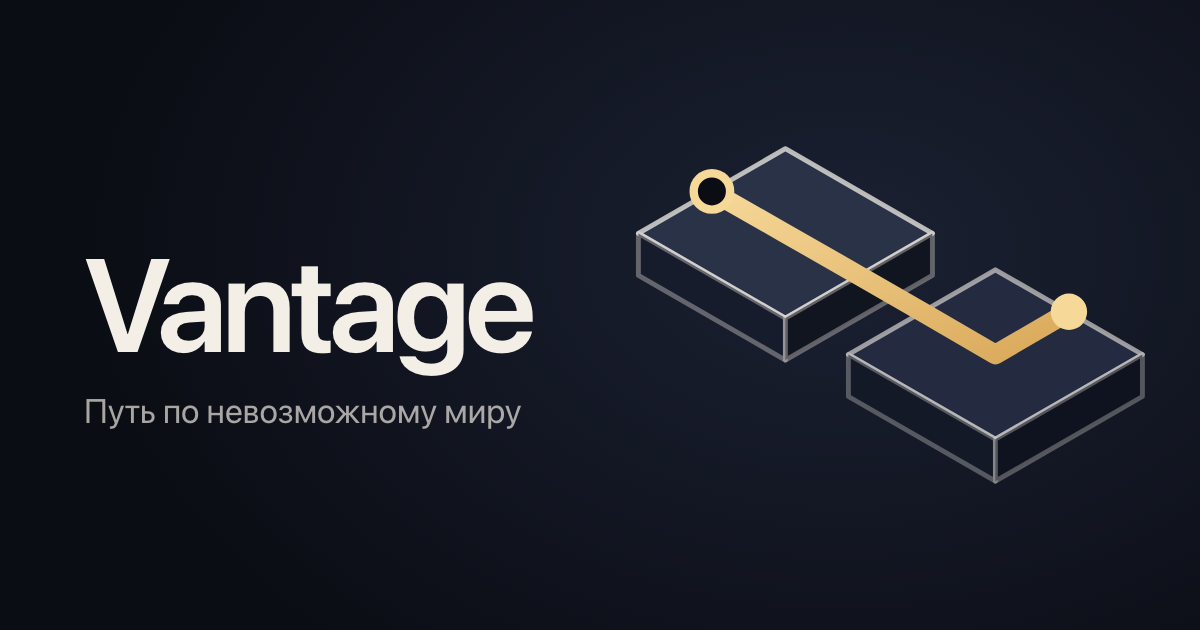
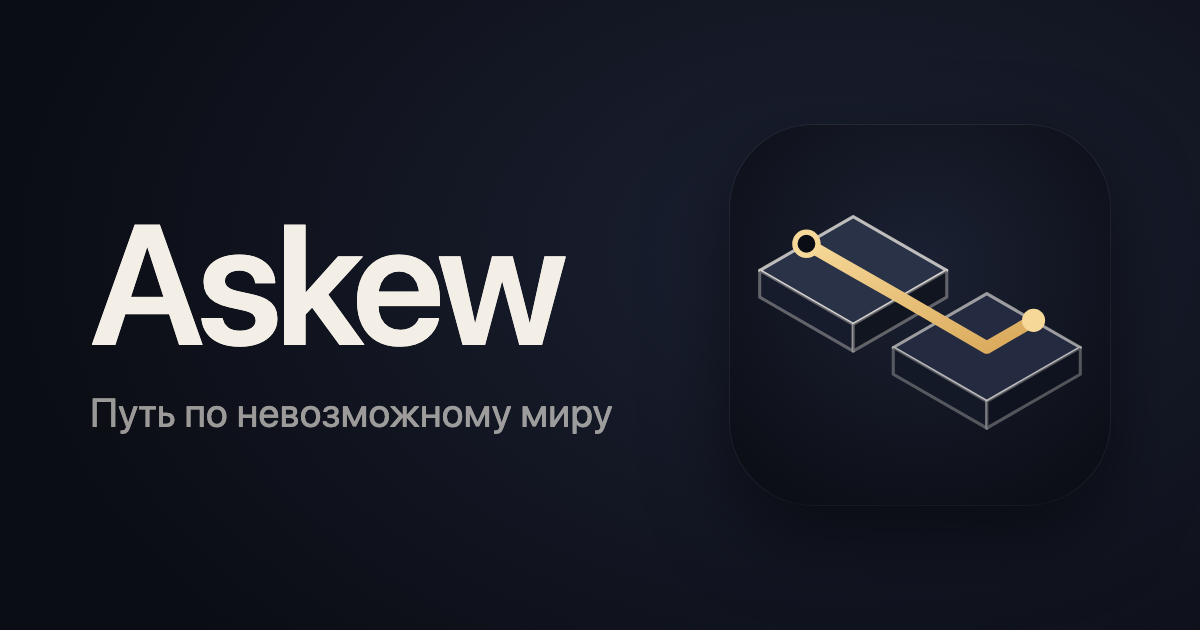
Rename the game to Askew, new cover

diff --git a/src/i18n.js b/src/i18n.js
@@ -1,4 +1,4 @@
-// Vantage i18n: V.i18n.t(key, params), setLang(l), lang(), pick({ru,en}), apply(root), onChange(fn).
+// Askew i18n: V.i18n.t(key, params), setLang(l), lang(), pick({ru,en}), apply(root), onChange(fn).
 // Markup: data-i18n="key" (text), data-i18n-aria="key" (aria-label), data-i18n-title="key" (title).
 (function (root) {
   const V = (root.V = root.V || {});
@@ -10,7 +10,7 @@
       'pw.title': 'Полная версия', 'pw.p': 'Все остальные главы и будущие уровни. Бесплатные главы остаются бесплатными навсегда. Разовая покупка, без подписки.', 'pw.buy': 'Купить полную версию', 'pw.restore': 'Восстановить покупку', 'pw.later': 'Позже', 'pw.bad': 'Покупка не завершена', 'pw.on': 'Полная версия открыта. Спасибо!', 'pw.open': 'Полная версия', 'pw.active': 'Полная версия · открыта', 'levels.pro': 'Полная версия',
       'hint.idle': 'Застрял? Нажми на лампочку: подскажу идею. Один раз на уровень',
       'daily.t': 'Уровень дня', 'daily.lock': 'Уровень дня · ещё {n}', 'daily.done': 'Пройден · завтра новый', 'daily.note': 'Новый уровень завтра', 'share.btn': 'Поделиться', 'share.copied': 'Скопировано', 'share.fail': 'Не удалось скопировать', 'photo.btn': 'Фото',
-      'share.level': 'Vantage · Уровень {n}', 'share.daily': 'Vantage · Уровень дня №{n}',
+      'share.level': 'Askew · Уровень {n}', 'share.daily': 'Askew · Уровень дня №{n}',
       'win.par': 'Эталон', 'win.tip.par': 'Ещё звезда: уложись в {n} или меньше', 'win.tip.hint': 'Ещё звезда: пройди без подсказок', 'win.tip.full': 'Идеальное прохождение',
       'dead.t': 'Отсюда путь не найти', 'dead.undo': 'Отменить ход', 'dead.reset': 'Заново', 'bar.reset': 'Уровень сброшен', 'bar.restore': 'Вернуть',
       'common.back': 'Назад', 'common.close': 'Закрыть', 'common.cancel': 'Отмена',
@@ -36,7 +36,7 @@
       'how.1.h': 'Вращай мир', 'how.1.p': 'Перетащи по экрану или нажми стрелки: вид переключается между четырьмя сторонами.',
       'how.2.h': 'Соединяй на экране', 'how.2.p': 'Если плитки касаются на экране, между ними можно пройти — даже когда в мире они далеко друг от друга.',
       'how.3.h': 'Дойди до кольца', 'how.3.p': 'Коснись плитки, чтобы идти. Рычаги открывают ворота, а блоки можно двигать.',
-      'set.foot': 'Vantage · {n} уровней · работает без интернета', 'how.legend': 'Что встретится', 'how.l.lever': 'Рычаг и ворота', 'how.l.lever.p': 'Наступи на рычаг, и ворота откроются. Переключатель меняет их туда и обратно.', 'how.l.slider': 'Блок-ползунок', 'how.l.slider.p': 'Его можно сдвинуть пальцем: новое положение соединяет другие плитки.', 'how.l.crumble': 'Хрупкая плитка', 'how.l.crumble.p': 'Рассыпается, как только ты с неё сошёл. Назад нельзя.', 'how.l.ghost': 'Призрак', 'how.l.ghost.p': 'Есть только с двух противоположных сторон. Поворачивай мир.', 'how.l.portal': 'Портал', 'how.l.portal.p': 'Шагни в кольцо, и выйдешь из парного.', 'how.l.twin': 'Двойник', 'how.l.twin.p': 'Повторяет твои шаги зеркально. Оба должны дойти до своих колец.', 'how.hint': 'Подсказка одна на уровень и открывает идею, а не весь путь.',
+      'set.foot': 'Askew · {n} уровней · работает без интернета', 'how.legend': 'Что встретится', 'how.l.lever': 'Рычаг и ворота', 'how.l.lever.p': 'Наступи на рычаг, и ворота откроются. Переключатель меняет их туда и обратно.', 'how.l.slider': 'Блок-ползунок', 'how.l.slider.p': 'Его можно сдвинуть пальцем: новое положение соединяет другие плитки.', 'how.l.crumble': 'Хрупкая плитка', 'how.l.crumble.p': 'Рассыпается, как только ты с неё сошёл. Назад нельзя.', 'how.l.ghost': 'Призрак', 'how.l.ghost.p': 'Есть только с двух противоположных сторон. Поворачивай мир.', 'how.l.portal': 'Портал', 'how.l.portal.p': 'Шагни в кольцо, и выйдешь из парного.', 'how.l.twin': 'Двойник', 'how.l.twin.p': 'Повторяет твои шаги зеркально. Оба должны дойти до своих колец.', 'how.hint': 'Подсказка одна на уровень и открывает идею, а не весь путь.',
       'how.stars': 'Звёзды: пройти уровень, обойтись без подсказок, уложиться в эталон ходов. Повороты мира не считаются.', 'how.go': 'К игре',
     },
     en: {
@@ -46,7 +46,7 @@
       'pw.title': 'Full version', 'pw.p': 'Every remaining chapter and all future levels. Free chapters stay free forever. One purchase, no subscription.', 'pw.buy': 'Buy the full version', 'pw.restore': 'Restore purchase', 'pw.later': 'Not now', 'pw.bad': 'Purchase was not completed', 'pw.on': 'Full version unlocked. Thank you!', 'pw.open': 'Full version', 'pw.active': 'Full version · unlocked', 'levels.pro': 'Full version',
       'hint.idle': 'Stuck? Tap the bulb for an idea. One per level',
       'daily.t': 'Daily level', 'daily.lock': 'Daily level · {n} to go', 'daily.done': 'Solved · new one tomorrow', 'daily.note': 'A new level tomorrow', 'share.btn': 'Share', 'share.copied': 'Copied', 'share.fail': 'Could not copy', 'photo.btn': 'Photo',
-      'share.level': 'Vantage · Level {n}', 'share.daily': 'Vantage · Daily level #{n}',
+      'share.level': 'Askew · Level {n}', 'share.daily': 'Askew · Daily level #{n}',
       'win.par': 'Par', 'win.tip.par': 'One more star: finish in {n} or fewer', 'win.tip.hint': 'One more star: finish without hints', 'win.tip.full': 'A perfect run',
       'dead.t': 'There is no way out from here', 'dead.undo': 'Undo move', 'dead.reset': 'Restart', 'bar.reset': 'Level restarted', 'bar.restore': 'Bring back',
       'common.back': 'Back', 'common.close': 'Close', 'common.cancel': 'Cancel',
@@ -72,7 +72,7 @@
       'how.1.h': 'Turn the world', 'how.1.p': 'Drag across the screen or press the arrows: the view snaps between four sides.',
       'how.2.h': 'Connect on screen', 'how.2.p': 'If two tiles touch on screen you can walk between them, even when they are far apart in the world.',
       'how.3.h': 'Reach the ring', 'how.3.p': 'Tap a tile to walk. Levers open gates, and some blocks can be slid.',
-      'set.foot': 'Vantage · {n} levels · works offline', 'how.legend': 'What you will meet', 'how.l.lever': 'Lever and gate', 'how.l.lever.p': 'Step on the lever and the gate opens. A toggle flips gates back and forth.', 'how.l.slider': 'Sliding block', 'how.l.slider.p': 'Drag it: its new position joins other tiles.', 'how.l.crumble': 'Fragile tile', 'how.l.crumble.p': 'Crumbles once you step off. No way back.', 'how.l.ghost': 'Ghost', 'how.l.ghost.p': 'Exists only from two opposite sides. Keep turning the world.', 'how.l.portal': 'Portal', 'how.l.portal.p': 'Step into a ring and you come out of its twin.', 'how.l.twin': 'Twin', 'how.l.twin.p': 'Copies your steps in a mirror. Both must reach their rings.', 'how.hint': 'One hint per level, and it gives the idea, not the whole path.',
+      'set.foot': 'Askew · {n} levels · works offline', 'how.legend': 'What you will meet', 'how.l.lever': 'Lever and gate', 'how.l.lever.p': 'Step on the lever and the gate opens. A toggle flips gates back and forth.', 'how.l.slider': 'Sliding block', 'how.l.slider.p': 'Drag it: its new position joins other tiles.', 'how.l.crumble': 'Fragile tile', 'how.l.crumble.p': 'Crumbles once you step off. No way back.', 'how.l.ghost': 'Ghost', 'how.l.ghost.p': 'Exists only from two opposite sides. Keep turning the world.', 'how.l.portal': 'Portal', 'how.l.portal.p': 'Step into a ring and you come out of its twin.', 'how.l.twin': 'Twin', 'how.l.twin.p': 'Copies your steps in a mirror. Both must reach their rings.', 'how.hint': 'One hint per level, and it gives the idea, not the whole path.',
       'how.stars': 'Stars: solve the level, use no hints, finish within par. Turning the world is free.', 'how.go': 'Back to game',
     },
   };

diff --git a/index.html b/index.html
@@ -3,9 +3,9 @@
 <head>
 <meta charset="utf-8">
 <meta name="viewport" content="width=device-width, initial-scale=1, viewport-fit=cover">
-<title>Vantage</title>
-<meta name="description" content="Vantage: turn the world until distance disappears. An isometric puzzle about impossible paths. Play instantly, no sign-up.">
-<meta property="og:type" content="website"><meta property="og:title" content="Vantage — a puzzle about impossible paths"><meta property="og:description" content="Turn the world until distance disappears. 66 handmade levels, a new daily level, no sign-up."><meta property="og:image" content="https://snayman.github.io/vantage-game/assets/og-cover.png"><meta property="og:image:width" content="1200"><meta property="og:image:height" content="630"><meta name="twitter:card" content="summary_large_image"><meta name="twitter:image" content="https://snayman.github.io/vantage-game/assets/og-cover.png">
+<title>Askew</title>
+<meta name="description" content="Askew: turn the world until distance disappears. An isometric puzzle about impossible paths. Play instantly, no sign-up.">
+<meta property="og:type" content="website"><meta property="og:title" content="Askew — a puzzle about impossible paths"><meta property="og:description" content="Turn the world until distance disappears. 66 handmade levels, a new daily level, no sign-up."><meta property="og:image" content="https://snayman.github.io/vantage-game/assets/og-cover.png"><meta property="og:image:width" content="1200"><meta property="og:image:height" content="630"><meta name="twitter:card" content="summary_large_image"><meta name="twitter:image" content="https://snayman.github.io/vantage-game/assets/og-cover.png">
 <meta name="theme-color" content="#0B0D14">
 <link rel="manifest" href="manifest.webmanifest">
 <meta name="color-scheme" content="dark">
@@ -58,13 +58,13 @@
 
 <div id="app">
   <div class="transition" id="transition" aria-hidden="true"><div class="transition__inner"><div class="transition__num" id="tr-num"></div><i class="transition__rule"></i><div class="transition__chapter" id="tr-chapter"></div></div></div>
-  <canvas id="game" tabindex="-1" aria-label="Vantage"></canvas>
+  <canvas id="game" tabindex="-1" aria-label="Askew"></canvas>
 
   <!-- splash -->
-  <section class="screen is-active" data-screen="splash" aria-label="Vantage">
+  <section class="screen is-active" data-screen="splash" aria-label="Askew">
     <div class="splash">
       <svg class="splash-mark" aria-hidden="true"><use href="#logo"/></svg>
-      <h1 class="wordmark big">Vantage</h1>
+      <h1 class="wordmark big">Askew</h1>
       <div class="loadline"><i></i></div>
     </div>
   </section>
@@ -74,7 +74,7 @@
     <div class="menu">
       <div class="menu-head">
         <svg class="menu-mark" aria-hidden="true"><use href="#logo"/></svg>
-        <h1 class="wordmark">Vantage</h1>
+        <h1 class="wordmark">Askew</h1>
         <i class="rule"></i>
         <p class="tagline" data-i18n="app.tagline"></p>
       </div>

diff --git a/src/game.js b/src/game.js
@@ -1,4 +1,4 @@
-// Vantage game controller: state, input handlers, undo, hints, coach, win, save, wiring. Rules live in world.js, drawing in scene.js.
+// Askew game controller: state, input handlers, undo, hints, coach, win, save, wiring. Rules live in world.js, drawing in scene.js.
 (function (root) {
   const W = root.W, V = root.V, UI = V.UI, A = V.Audio || { play() {}, unlock() {}, setSound() {}, setMusic() {}, setHaptics() {}, haptic() {} };
   const $ = UI.$, t = UI.t, LV = W.LEVELS, KEY = 'walk.v1', pick = (o) => V.i18n.pick(o);
@@ -245,13 +245,13 @@
       const W_ = 1080, H_ = 1350, cv = document.createElement('canvas'); cv.width = W_; cv.height = H_; const g = cv.getContext('2d'), F = '-apple-system, "SF Pro Display", system-ui, "Segoe UI", Roboto, sans-serif';
       const bg = g.createLinearGradient(0, 0, 0, H_); bg.addColorStop(0, '#1A1F2E'); bg.addColorStop(1, '#0B0D14'); g.fillStyle = bg; g.fillRect(0, 0, W_, H_);
       const mini = document.createElement('canvas'); UI.drawMini(mini, level, W.initial(level), [W_, 760]); g.drawImage(mini, 0, 150);
-      g.fillStyle = '#F5F5F7'; g.font = '700 64px ' + F; g.fillText('Vantage', 72, 118);
-      g.fillStyle = 'rgba(245,245,247,.62)'; g.font = '500 34px ' + F; g.textAlign = 'right'; g.fillText(daily ? t('share.daily', { n: dailyDay }).replace('Vantage · ', '') : t('hud.level', { n: li + 1 }) + ' · ' + pick(level.name), W_ - 72, 114); g.textAlign = 'left';
+      g.fillStyle = '#F5F5F7'; g.font = '700 64px ' + F; g.fillText('Askew', 72, 118);
+      g.fillStyle = 'rgba(245,245,247,.62)'; g.font = '500 34px ' + F; g.textAlign = 'right'; g.fillText(daily ? t('share.daily', { n: dailyDay }).replace('Askew · ', '') : t('hud.level', { n: li + 1 }) + ' · ' + pick(level.name), W_ - 72, 114); g.textAlign = 'left';
       g.font = '700 120px ' + F; g.fillStyle = '#F6D898'; g.fillText('★'.repeat(lastStars), 72, 1090); g.fillStyle = 'rgba(255,255,255,.18)'; g.fillText('★'.repeat(3 - lastStars), 72 + 120 * 0.97 * lastStars, 1090);
       g.fillStyle = '#F5F5F7'; g.font = '600 48px ' + F; g.fillText(moves + ' / ' + parOf(level) + (V.i18n.lang() === 'ru' ? '  ходов' : '  moves'), 72, 1170);
       const col = { T: '#5CC6D9', W: '#F6D898', S: '#8FCF8A' }; const tr = trail.slice(0, 24).split(''); tr.forEach((c, i) => { g.fillStyle = col[c] || '#fff'; g.beginPath(); g.roundRect ? g.roundRect(72 + i * 40, 1214, 32, 32, 8) : g.rect(72 + i * 40, 1214, 32, 32); g.fill(); });
-      g.fillStyle = 'rgba(245,245,247,.45)'; g.font = '500 30px ' + F; g.fillText(location.host || 'vantage', 72, 1296);
-      cv.toBlob((b) => resolve(b ? new File([b], 'vantage.png', { type: 'image/png' }) : null), 'image/png');
+      g.fillStyle = 'rgba(245,245,247,.45)'; g.font = '500 30px ' + F; g.fillText(location.host || 'askew', 72, 1296);
+      cv.toBlob((b) => resolve(b ? new File([b], 'askew.png', { type: 'image/png' }) : null), 'image/png');
     });
   }
   async function share() {

diff --git a/sw.js b/sw.js
@@ -1,5 +1,5 @@
 // Offline support: network first (always fresh when online), cached copy when the network is gone. The whole app shell is cached on install, so the game opens offline after the first visit.
-const CACHE = 'vantage-v2';
+const CACHE = 'askew-v3';
 const SHELL = ['./', 'index.html', 'config.js', 'style.css', 'play.css', 'panels.css', 'assets/transitions.css', 'vendor/three.min.js', 'src/world.js', 'src/levels.js', 'src/i18n.js', 'src/audio.js', 'src/scene-fx.js', 'src/scene.js', 'src/ui.js', 'src/game.js', 'manifest.webmanifest', 'assets/icon.svg', 'assets/icon-192.png'];
 self.addEventListener('install', (e) => e.waitUntil(caches.open(CACHE).then((c) => Promise.all(SHELL.map((u) => c.add(u).catch(() => {})))).then(() => self.skipWaiting())));
 self.addEventListener('activate', (e) => e.waitUntil(caches.keys().then((ks) => Promise.all(ks.filter((k) => k !== CACHE).map((k) => caches.delete(k)))).then(() => self.clients.claim())));

diff --git a/panels.css b/panels.css
@@ -1,4 +1,4 @@
-/* Vantage (walk): level select cards. */
+/* Askew (walk): level select cards. */
 .ch-head { grid-column: 1 / -1; display: flex; align-items: baseline; gap: 10px; margin: 20px 4px 0; } .ch-head:first-child { margin-top: 0; }
 .ch-head span { color: var(--text-3); font-size: 13px; font-weight: 500; } .ch-head h3 { font-size: 24px; font-weight: 700; letter-spacing: -.02em; flex: 1; } .ch-head small { color: var(--text-3); font-size: 13px; font-variant-numeric: tabular-nums; }
 .lv-grid { display: grid; grid-template-columns: repeat(auto-fill, minmax(min(100%, 320px), 1fr)); gap: 16px; }

diff --git a/play.css b/play.css
@@ -1,4 +1,4 @@
-/* Vantage (walk): play HUD, dock, coach card, toast, win card. */
+/* Askew (walk): play HUD, dock, coach card, toast, win card. */
 .hud { position: absolute; inset: calc(var(--sat) + 16px) var(--gxr) calc(var(--sab) + 16px) var(--gx); display: flex; flex-direction: column; justify-content: space-between; pointer-events: none; }
 .hud-top { display: flex; align-items: center; gap: 8px; }
 .hud-title { flex: 1; min-width: 0; height: 48px; border-radius: 24px; padding: 0 20px; display: flex; flex-direction: column; justify-content: center; line-height: 1.15; }

diff --git a/style.css b/style.css
@@ -1,4 +1,4 @@
-/* Vantage (walk): tokens, base, buttons, screens, splash, menu, pages, settings, how-to. See play.css (HUD, coach, win) and panels.css (levels). One dark theme. */
+/* Askew (walk): tokens, base, buttons, screens, splash, menu, pages, settings, how-to. See play.css (HUD, coach, win) and panels.css (levels). One dark theme. */
 :root {
   --scene-top: #151925; --scene-bottom: #0B0D14;           /* read by scene.js */
   --ink-0: #0B0D14; --ink-1: #151925; --ink-2: #1D2333;

diff --git a/config.js b/config.js
@@ -1,4 +1,4 @@
-// Vantage configuration. Free chapters are the same in every build; the purchase itself is provided by the native
+// Askew configuration. Free chapters are the same in every build; the purchase itself is provided by the native
 // wrapper (Capacitor etc.) as V.store = { owned(), buy(), restore(), price() }, all returning Promises. In a plain browser there is no store and the whole game is open.
 (function (root) {
   const V = (root.V = root.V || {});

diff --git a/assets/transitions.css b/assets/transitions.css
@@ -1,4 +1,4 @@
-/* Vantage: level transition screen. Total <= 640 ms (out 220 + hold + in 260), opacity/transform only. */
+/* Askew: level transition screen. Total <= 640 ms (out 220 + hold + in 260), opacity/transform only. */
 .transition {
   position: fixed; inset: 0; z-index: 50; display: grid; place-items: center; text-align: center;
   background: var(--ink-0, #0B0D14); color: var(--text, #F3EFE7);

diff --git a/src/ui.js b/src/ui.js
@@ -1,4 +1,4 @@
-// Vantage UI helpers (no game rules): screens, toast, coach card, level cards with mini iso diagrams, how-to art, win stars.
+// Askew UI helpers (no game rules): screens, toast, coach card, level cards with mini iso diagrams, how-to art, win stars.
 // window.V.UI. Used by game.js.
 (function (root) {
   const V = (root.V = root.V || {}), W = root.W, doc = document;

diff --git a/src/audio.js b/src/audio.js
@@ -1,4 +1,4 @@
-// Vantage audio: everything synthesized with Web Audio (no files). window.V.Audio
+// Askew audio: everything synthesized with Web Audio (no files). window.V.Audio
 // Calm, warm, gallery-like: mallet / kalimba / glass tones, soft pads, D major pentatonic.
 // Every method is a safe no-op when Web Audio is unavailable or before unlock().
 (function (root) {
